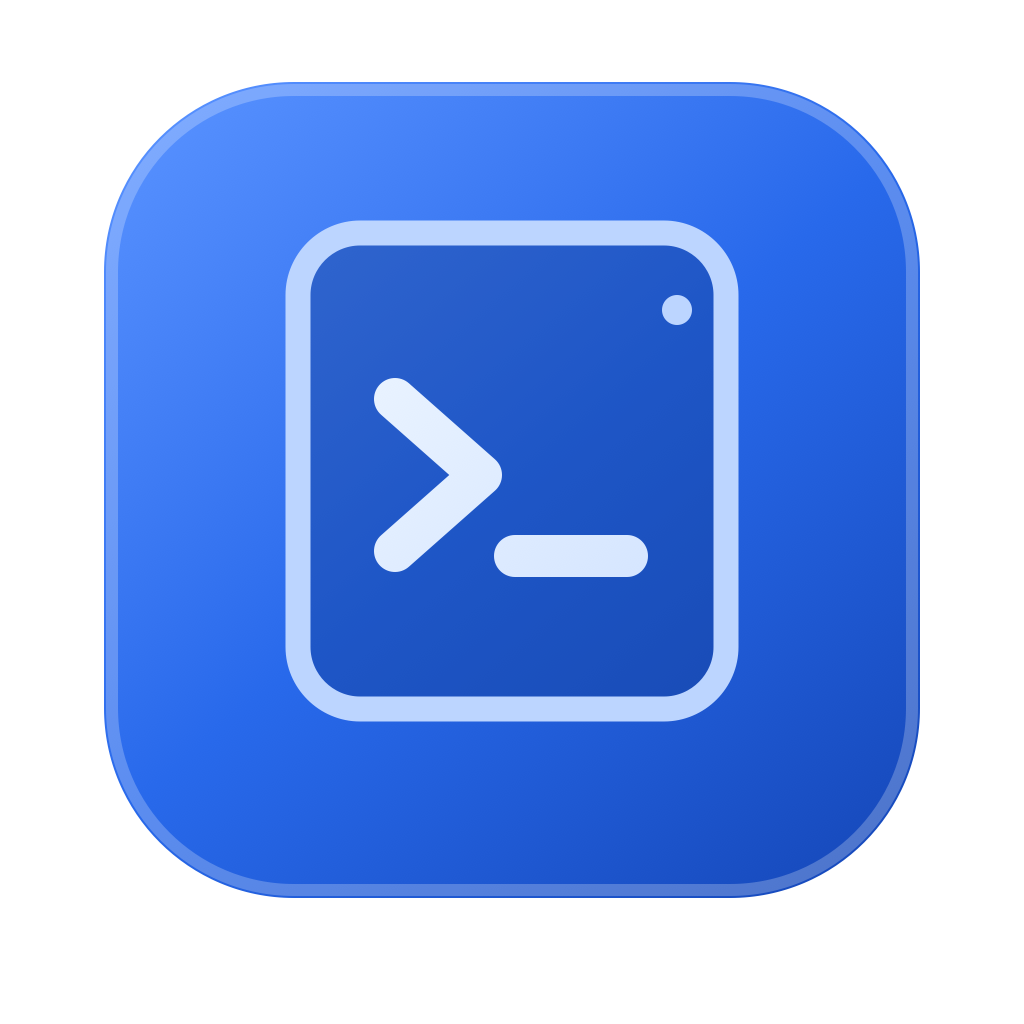
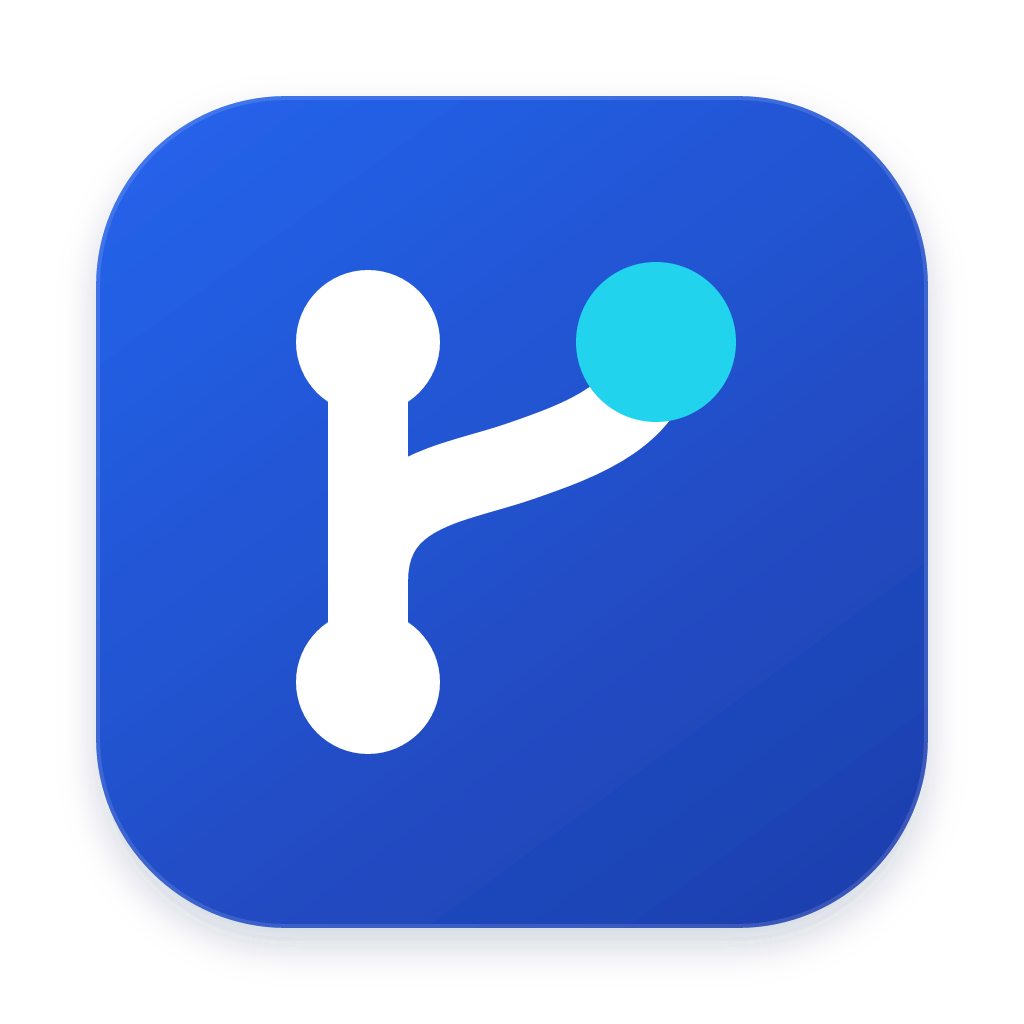
refactor(brand): 统一 RemoteGit 远程分支图标 (#32)

diff --git a/apps/web/src/components/Layout.tsx b/apps/web/src/components/Layout.tsx
@@ -5,7 +5,6 @@ import { Button, Dropdown, Tooltip, message, notification } from 'antd';
 import {
   ApartmentOutlined,
   CloudSyncOutlined,
-  CodeOutlined,
   FolderOpenOutlined,
   MenuFoldOutlined,
   MenuUnfoldOutlined,
@@ -22,6 +21,7 @@ import { useWorkspaceStorageStatus } from '../stores/workspaceStorage';
 import { useWorkspaceLayout } from '../hooks/useWorkspaceLayout';
 import { PanelResizeHandle } from './PanelResizeHandle';
 import { SettingsCenter } from './settings/SettingsCenter';
+import { BrandIcon } from './BrandIcon';
 import { SIDEBAR_MIN } from '../stores/workspaceLayout';
 
 const navItems = [
@@ -227,9 +227,7 @@ export function Layout() {
               aria-label="RemoteGit 首页"
               onClick={() => navigate('/')}
             >
-              <span className="app-brand__mark">
-                <CodeOutlined />
-              </span>
+              <BrandIcon />
               <span className="app-brand__text">RemoteGit</span>
             </button>
             <Button
@@ -323,9 +321,7 @@ export function Layout() {
               </Tooltip>
             </div>
             <div className="sidebar-footer__account">
-              <span className="sidebar-footer__avatar">
-                <CodeOutlined />
-              </span>
+              <BrandIcon className="sidebar-footer__avatar" />
               <div className="sidebar-footer__account-copy">
                 <strong>RemoteGit</strong>
                 <span>工作区就绪</span>

diff --git a/apps/web/src/index.css b/apps/web/src/index.css
@@ -597,17 +597,11 @@ body,
 }
 
 .app-brand__mark {
-  display: grid;
+  display: block;
   flex: 0 0 auto;
-  place-items: center;
   width: 34px;
   height: 34px;
-  color: #fff;
-  background: linear-gradient(145deg, #4b83f1 0%, #2563eb 100%);
-  border: 1px solid rgb(37 99 235 / 20%);
-  border-radius: 9px;
-  font-size: 16px;
-  box-shadow: 0 6px 16px rgb(37 99 235 / 30%), inset 0 1px rgb(255 255 255 / 18%);
+  object-fit: contain;
 }
 
 .app-brand__text {
@@ -934,17 +928,11 @@ body,
 }
 
 .sidebar-footer__avatar {
-  display: grid;
+  display: block;
   flex: 0 0 auto;
-  place-items: center;
   width: 28px;
   height: 28px;
-  color: #dce8ff;
-  background: linear-gradient(145deg, #477bd0, #2b579c);
-  border: 1px solid rgb(37 99 235 / 22%);
-  border-radius: 8px;
-  font-size: 13px;
-  box-shadow: inset 0 1px rgb(255 255 255 / 14%);
+  object-fit: contain;
 }
 
 .sidebar-footer__account-copy {

diff --git a/apps/web/src/components/settings/SettingsCenter.tsx b/apps/web/src/components/settings/SettingsCenter.tsx
@@ -3,7 +3,6 @@ import { Alert, Button } from 'antd';
 import {
   ApartmentOutlined,
   ArrowLeftOutlined,
-  CodeOutlined,
   DesktopOutlined,
   LayoutOutlined,
   ReloadOutlined,
@@ -17,6 +16,7 @@ import { CommitSettings } from './CommitSettings';
 import { LayoutSettingsContent } from '../LayoutSettings';
 import { UpdatePanelContent } from '../UpdatePanel';
 import { Sparkles } from '../Sparkles';
+import { BrandIcon } from '../BrandIcon';
 import '../../settings.css';
 
 const categories = [
@@ -49,9 +49,7 @@ export function SettingsCenter({
     <div className="settings-center">
       <header className="settings-header">
         <div className="settings-brand">
-          <span className="app-brand__mark">
-            <CodeOutlined />
-          </span>
+          <BrandIcon />
           <strong>RemoteGit</strong>
         </div>
         <div className="settings-header__bar">

diff --git a/apps/web/src/components/BrandIcon.tsx b/apps/web/src/components/BrandIcon.tsx
@@ -1,0 +1,14 @@
+/** The favicon and every in-app brand mark share the generated compact artwork. */
+export function BrandIcon({ className = 'app-brand__mark' }: { className?: string }) {
+  return (
+    <img
+      className={className}
+      src="/favicon.svg"
+      alt=""
+      aria-hidden="true"
+      width={34}
+      height={34}
+      draggable={false}
+    />
+  );
+}

diff --git a/README.md b/README.md
@@ -33,6 +33,8 @@ npm run desktop:test  # 构建后执行桌面集成测试
 
 正式对外发布 macOS 应用还需要配置开发者签名和 Apple 公证；仓库默认可生成本机测试包。Windows 签名同样需要自行提供证书。
 
+图标源文件为 `apps/desktop/assets/icon.svg`。修改后运行 `npm run icons:generate`，生成桌面 PNG 和网页 favicon，并一起提交派生资源。`npm run icons:check` 检查资源是否同步，根构建和桌面构建也会执行此检查。
+
 ## AI 提交信息与设置中心
 
 “设置”打开独立页面，统一管理 AI 服务商、提交生成、布局和版本更新；“返回工作区”恢复原仓库、面板和提交草稿。桌面窗口支持缩小到 320 px，窄窗口通过分类选择和服务商列表逐级进入详情。
